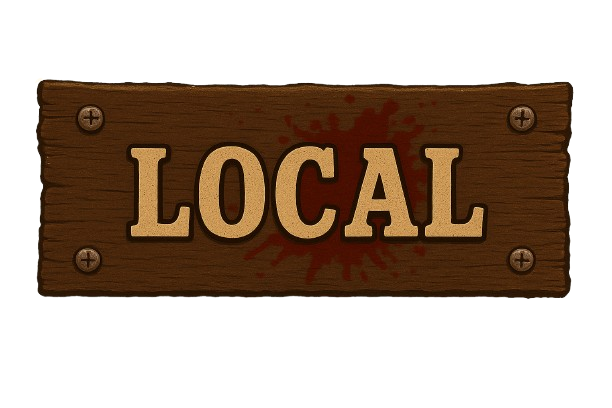
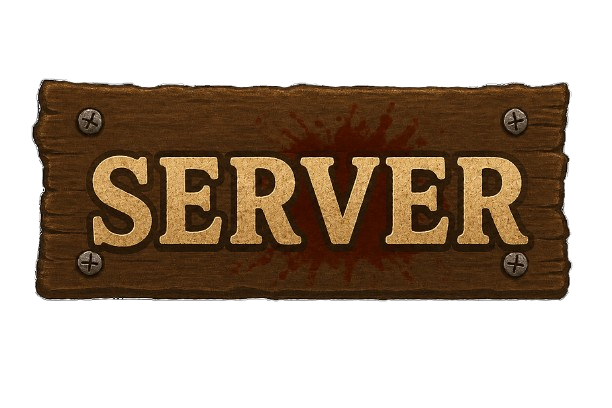
server and client buttons

Changed region(s): [[0.031, 0.1765, 0.9624, 0.7647], [0.652, 0.2941, 0.683, 0.3235]]

diff --git a/final-project/final-project/Pages/ModePage.xaml b/final-project/final-project/Pages/ModePage.xaml
@@ -68,18 +68,13 @@
         <Grid.Background>
             <ImageBrush ImageSource="/Assets/BackGrounds/MenuBackground.png" Stretch="UniformToFill"/>
         </Grid.Background>
-        <Viewbox Grid.Row="14" Grid.Column="9" Grid.ColumnSpan="8" Grid.RowSpan="5" HorizontalAlignment="Stretch" VerticalAlignment="Stretch">
-            <Button x:Name="OfflineButton" Click="OfflineButton_Click" Background="Transparent" BorderBrush="Transparent" Foreground="Transparent">
-                <Image Source="/Assets/Buttons/OfflineButton.png"></Image>
-            </Button>
-        </Viewbox>
         <Viewbox Grid.Row="17   " Grid.Column="9" Grid.ColumnSpan="8" Grid.RowSpan="5" HorizontalAlignment="Stretch" VerticalAlignment="Stretch">
-            <Button x:Name="LocalButton" Click="LocalButton_Click" Background="Transparent" BorderBrush="Transparent">
+            <Button x:Name="ServerButton" Click="ServerButton_Click" Background="Transparent" BorderBrush="Transparent">
                 <Image Source="/Assets/Buttons/LocalButton.png"></Image>
             </Button>
         </Viewbox>
         <Viewbox Grid.Row="20" Grid.Column="9" Grid.ColumnSpan="8" Grid.RowSpan="5" HorizontalAlignment="Stretch" VerticalAlignment="Stretch">
-            <Button x:Name="OnlineButton" Click="OnlineButton_Click" Background="Transparent" BorderBrush="Transparent" Foreground="Transparent">
+            <Button x:Name="ClientButton" Click="ClientButton_Click" Background="Transparent" BorderBrush="Transparent" Foreground="Transparent">
                 <Image Source="/Assets/Buttons/OnlineButton.png"></Image>
             </Button>
         </Viewbox>

diff --git a/final-project/final-project/Pages/Registration.xaml b/final-project/final-project/Pages/Registration.xaml
@@ -6,8 +6,8 @@
     xmlns:d="http://schemas.microsoft.com/expression/blend/2008"
     xmlns:mc="http://schemas.openxmlformats.org/markup-compatibility/2006"
     mc:Ignorable="d"
- Title="Registration"
- PrimaryButtonText="Registration"
+ Title="Connection"
+ PrimaryButtonText="Connect"
  SecondaryButtonText="Clear"
  PrimaryButtonClick="ContentDialog_PrimaryButtonClick"
  SecondaryButtonClick="ContentDialog_SecondaryButtonClick"
@@ -22,7 +22,5 @@
         </Grid.RowDefinitions>
         <TextBlock Text="IP:" VerticalAlignment="Center" Margin="0,0,0,5"/>
         <TextBox x:Name="IPTextBox" Grid.Row="1" PlaceholderText="Enter IP" Margin="0,0,0,10"/>
-        <TextBlock Text="Name:" Grid.Row="2" VerticalAlignment="Center" Margin="0,0,0,5"/>
-        <TextBox x:Name="NameTextBox" Grid.Row="3" PlaceholderText="Enter Name"/>
     </Grid>
 </ContentDialog>

diff --git a/final-project/final-project/Pages/ModePage.xaml.cs b/final-project/final-project/Pages/ModePage.xaml.cs
@@ -23,17 +23,13 @@ namespace final_project.Pages
             GameConstants.rightPlayer = (int)_rightWeapon;
         }
 
-        private void OfflineButton_Click(object sender, RoutedEventArgs e)
+        
+        private void ServerButton_Click(object sender, RoutedEventArgs e)
         {
             Frame.Navigate(typeof(GamePage), Tuple.Create(GameRole.Server, (string)null));
         }
 
-        private void LocalButton_Click(object sender, RoutedEventArgs e)
-        {
-            Frame.Navigate(typeof(GamePage), Tuple.Create(GameRole.Server, (string)null));
-        }
-
-        private async void OnlineButton_Click(object sender, RoutedEventArgs e)
+        private async void ClientButton_Click(object sender, RoutedEventArgs e)
         {
             _registration = new Registration();
             var result = await _registration.ShowAsync();

diff --git a/final-project/final-project/Pages/GamePage.xaml.cs b/final-project/final-project/Pages/GamePage.xaml.cs
@@ -92,7 +92,6 @@ namespace final_project.Pages
                     ShotFired = localPlayer.ConsumeShotFlag()
                 };
 
-                // NEW: server is authoritative for UI
                 if (_role == GameRole.Server)
                 {
                     state.LeftHealth = LeftPlayerHealth.Value;

diff --git a/final-project/final-project/Pages/Registration.xaml.cs b/final-project/final-project/Pages/Registration.xaml.cs
@@ -24,7 +24,6 @@ namespace final_project.Pages
             ContentDialogButtonClickEventArgs args)
         {
             IPTextBox.Text = string.Empty;
-            NameTextBox.Text = string.Empty;
             args.Cancel = true;
         }
     }
